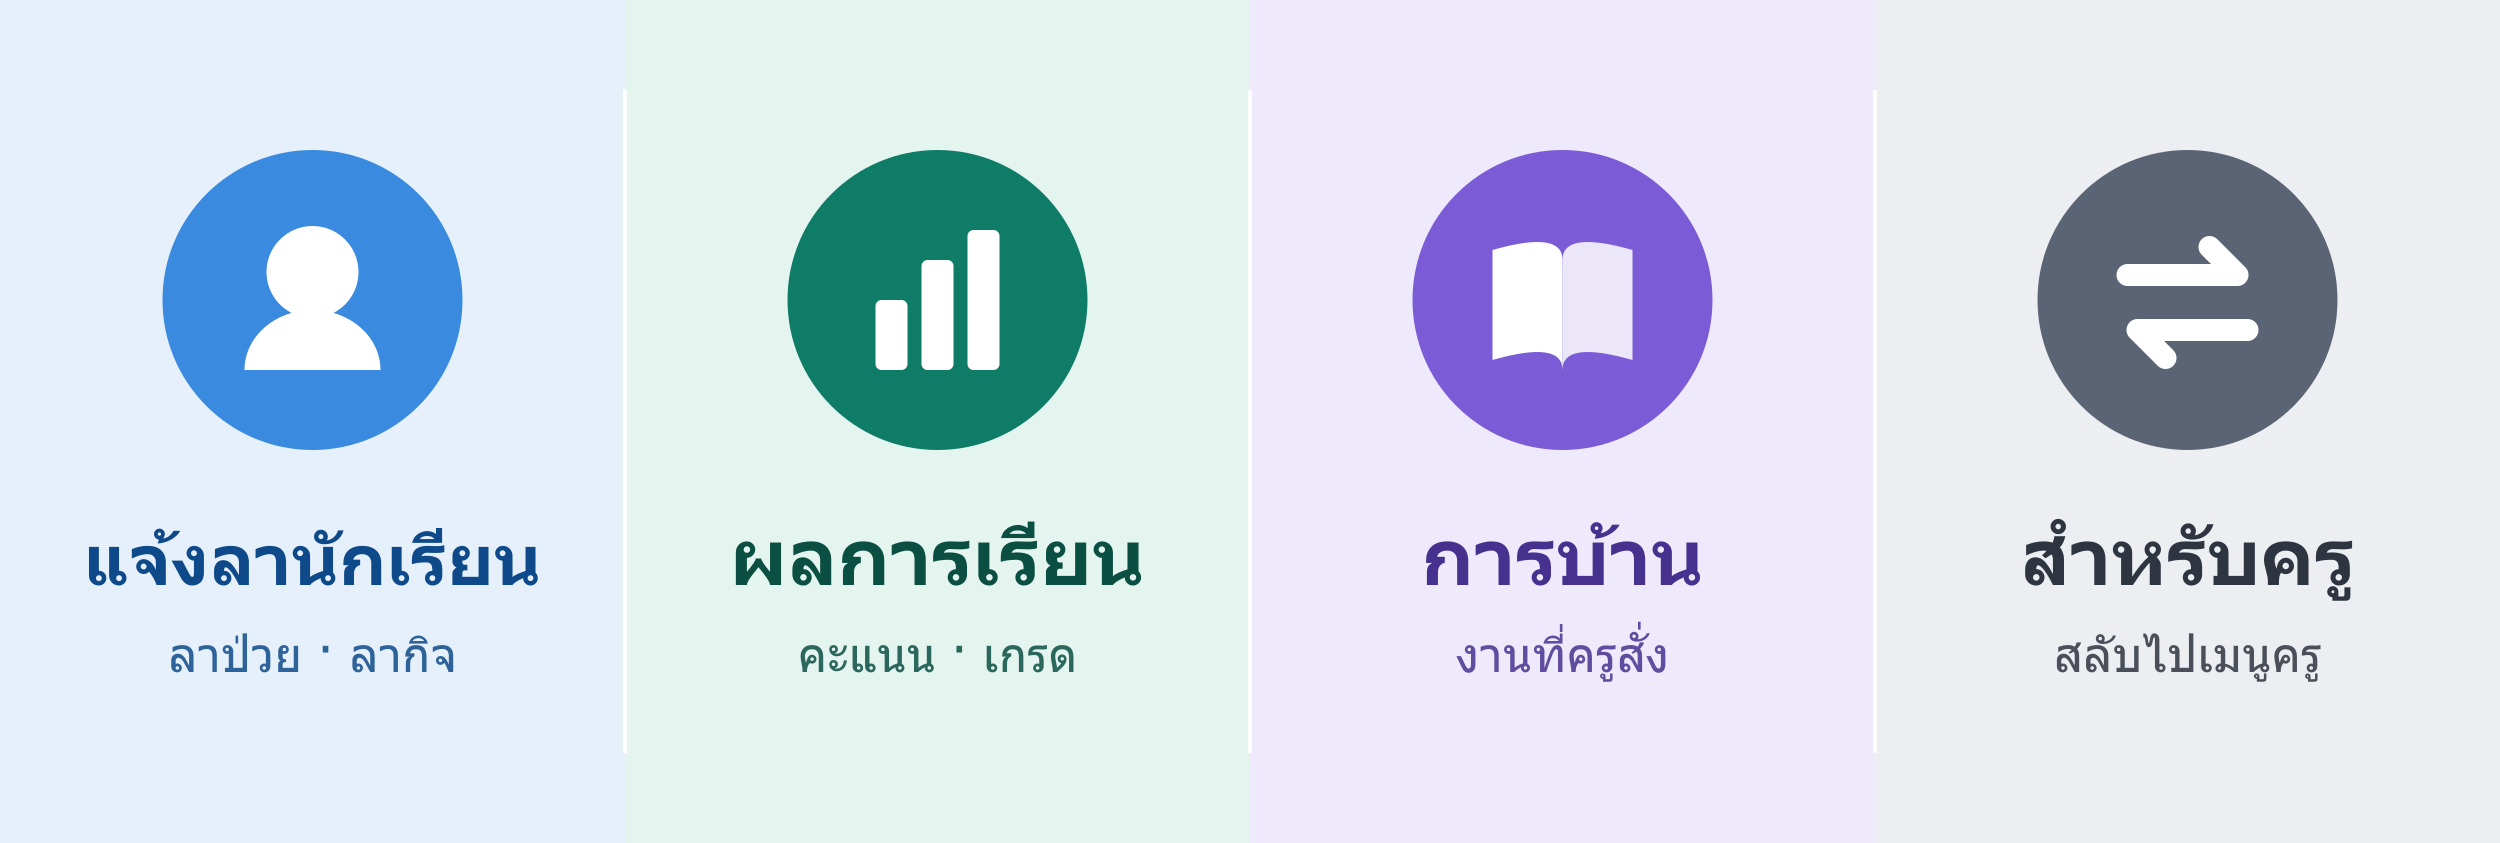
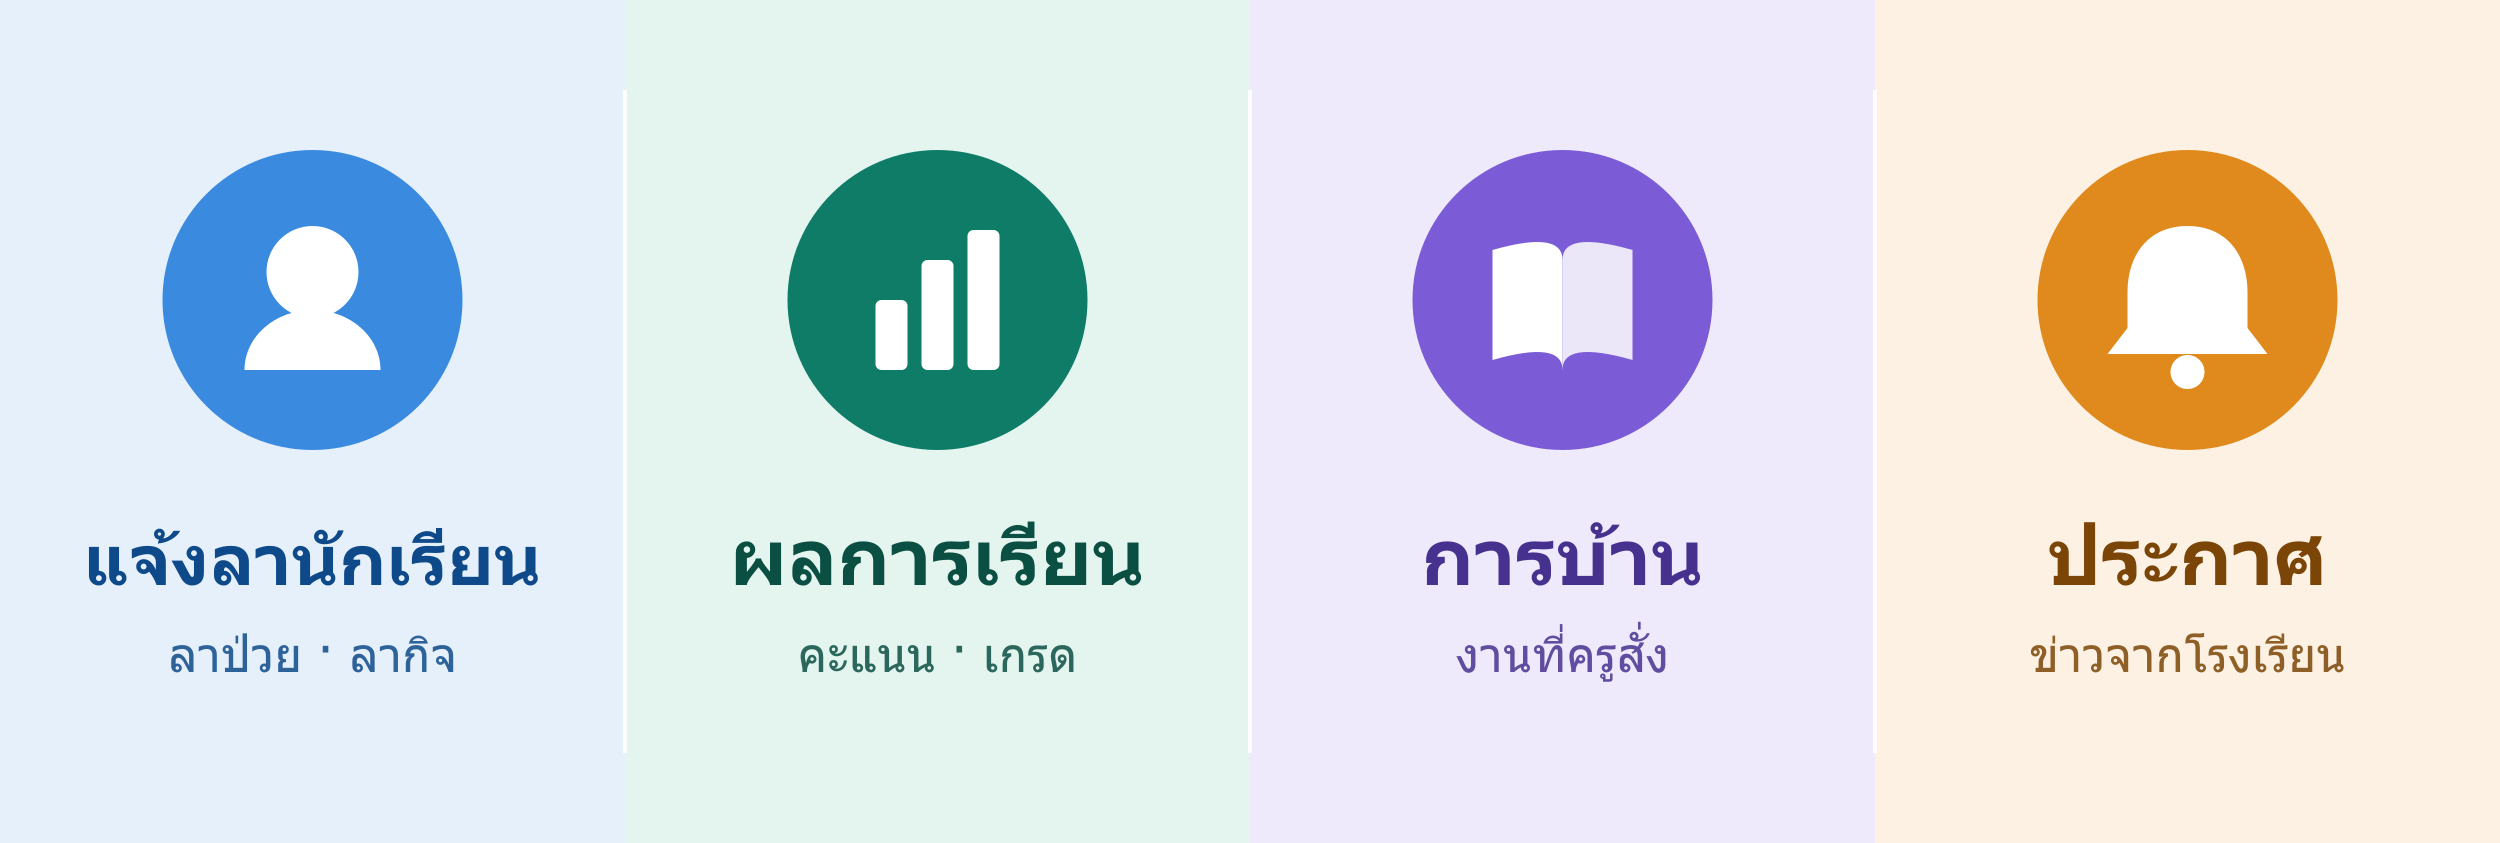
feat(n0): เมนูใหม่ (ประกาศ · ลูกของฉัน · ป้ายใหม่) + หน้า LIFF ลูกของฉัน/ประกาศ(รอพัฒนา)/ผูกบัญชีจาก QR

Changed region(s): [[0.8112, 0.1542, 0.936, 0.5552], [0.8112, 0.6168, 0.9672, 0.7094], [0.8112, 0.7402, 0.936, 0.8019]]

diff --git a/schoolflow.html b/schoolflow.html
@@ -183,6 +183,35 @@
   <div class="content" id="homeworkBody"><div class="empty-box">กำลังโหลด...</div></div>
 </div>
 
+<!-- ===== MY KIDS (ครูที่เป็นผู้ปกครอง — เมนูครูปุ่ม 4 · N0) ===== -->
+<div class="page" id="kidsPage">
+  <div class="header" style="background:#1E9C9C;">
+    <div class="header-badge"><span>👨👩👧</span><span>สำหรับครูที่เป็นผู้ปกครอง</span></div>
+    <h1>ลูกของฉัน</h1>
+    <p>เมนูผู้ปกครอง — ผูกลูกได้ที่ แจ้งลานักเรียน</p>
+  </div>
+  <div class="content">
+    <div class="section" style="display:grid;grid-template-columns:1fr 1fr;gap:10px;">
+      <button class="leave-type-btn" onclick="openKids('leave')"><span class="type-icon">📝</span><span class="type-label">แจ้งลานักเรียน</span></button>
+      <button class="leave-type-btn" onclick="openKids('grades')"><span class="type-icon">📊</span><span class="type-label">ผลการเรียน</span></button>
+      <button class="leave-type-btn" onclick="openKids('homework')"><span class="type-icon">📚</span><span class="type-label">การบ้าน</span></button>
+      <button class="leave-type-btn" onclick="openKids('notices')"><span class="type-icon">🔔</span><span class="type-label">ประกาศ</span></button>
+    </div>
+  </div>
+</div>
+
+<!-- ===== NOTICES (ผู้ปกครอง · กำลังพัฒนา — N1) ===== -->
+<div class="page" id="noticesPage">
+  <div class="header" style="background:#E08A1E;">
+    <div class="header-badge"><span>🔔</span><span>สมุดประกาศ</span></div>
+    <h1>ประกาศ</h1>
+    <p>ข่าวจากโรงเรียนและครูประจำชั้น</p>
+  </div>
+  <div class="content">
+    <div class="section"><div class="empty-box">🚧 กำลังพัฒนา<br>เร็ว ๆ นี้ประกาศจากโรงเรียนจะรวมไว้ที่นี่</div></div>
+  </div>
+</div>
+
 <!-- ===== NOTIFY PARENTS (ครู · กำลังพัฒนา) ===== -->
 <div class="page" id="notifyPage">
   <div class="header" style="background:#D6457A;">
@@ -207,7 +236,7 @@
     <div class="section">
       <div class="section-title">รหัสผูกบัญชี (8 ตัว)</div>
       <div style="font-size:13px;color:var(--gray);line-height:1.6;margin-bottom:10px;">
-        เปิดเว็บ Schoolflow บนคอม/มือถือ › กดชื่อมุมขวาบน › <b>ผูกบัญชี LINE</b> › สร้างรหัส แล้วกรอกที่นี่ภายใน 10 นาที
+        เปิดเว็บ Schoolflow › กดชื่อมุมขวาบน › <b>ผูกบัญชี LINE</b> › สร้างรหัส แล้ว<b>สแกน QR</b> (รหัสจะกรอกให้เอง) หรือพิมพ์รหัสที่นี่ภายใน 10 นาที
       </div>
       <input class="form-input" id="bindCode" type="text" inputmode="text" autocomplete="one-time-code" maxlength="9"
         placeholder="เช่น ABCD2345" style="text-transform:uppercase;letter-spacing:4px;font-size:20px;text-align:center;font-weight:700;">
@@ -246,7 +275,7 @@
   <div class="content">
     <div id="staffNotBound" class="section" style="display:none;">
       <div style="padding:14px;background:var(--yellow-pale);border:1px solid var(--yellow);border-radius:12px;font-size:14px;line-height:1.6;color:#8a6d00;">
-        ยังไม่ได้ผูกบัญชี LINE กับระบบ<br>เปิดหน้า <b>เช็คชื่อ (ครู)</b> แล้วกรอก <b>รหัสผูกบัญชี</b> จากเว็บ Schoolflow ก่อน แล้วกลับมาแจ้งลาได้
+        ยังไม่ได้ผูกบัญชี LINE กับระบบ<br>เปิดเว็บ Schoolflow › กดชื่อมุมขวาบน › <b>ผูกบัญชี LINE</b> แล้วสแกน QR ก่อน แล้วกลับมาแจ้งลาได้
       </div>
     </div>
     <div id="staffForm" style="display:none;">
@@ -325,6 +354,9 @@
       else if(page==='approve') initTeacher();
       else if(page==='staffleave') initStaffLeave();
       else if(page==='notify') show('notifyPage');
+      else if(page==='kids') show('kidsPage');
+      else if(page==='notices') show('noticesPage');
+      else if(page==='bind') initBind();
       else initParent();
     }catch(e){document.getElementById('connMsg').textContent='❌ '+e.message;}
   }
@@ -480,6 +512,22 @@
     if(d===1) return ['ส่งพรุ่งนี้','#b45309','#fef3c7'];
     return ['อีก '+d+' วัน','#6d4fc2','#efeafb'];
   }
+  /* ===== MY KIDS (hub — ไม่ต้องสลับ Rich Menu) ===== */
+  function openKids(p){
+    document.getElementById('kidsPage').classList.remove('show');
+    if(p==='grades') initGrades();
+    else if(p==='homework') initHomework();
+    else if(p==='notices') show('noticesPage');
+    else initParent();
+  }
+
+  /* ===== BIND (จาก QR บนเว็บ: ?page=bind&code=) ===== */
+  function initBind(){
+    const c=(params.get('code')||'').toUpperCase().replace(/[^A-Z0-9]/g,'').slice(0,8);
+    document.getElementById('bindCode').value=c;
+    show('bindPage');
+  }
+
   /* ===== NOTIFY (placeholder) ===== */
   function openWeb(){
     const url='https://schoolflow-74ffd.web.app/dashboard?school='+encodeURIComponent(SCHOOL);
@@ -529,7 +577,15 @@
     if(code.length!==8){st.textContent='กรอกรหัส 8 ตัวจากเว็บ Schoolflow';return;}
     document.getElementById('bindLabel').textContent='กำลังผูก...';
     const r=await api('bindTeacher',{code});
-    if(r.ok){document.getElementById('bindPage').classList.remove('show');initTeacher();}
+    if(r.ok){
+      document.getElementById('bindPage').classList.remove('show');
+      if(params.get('page')==='bind'){   // มาจาก QR → จบที่หน้าสำเร็จ
+        document.getElementById('successTitle').textContent='ผูกบัญชีสำเร็จ';
+        document.getElementById('successMsg').innerHTML=(r.teacher_name?esc(r.teacher_name)+'<br>':'')+'เมนูในไลน์จะเปลี่ยนเป็นเมนูครู<br>(ปิดแชตแล้วเปิดใหม่ถ้ายังไม่เปลี่ยน)';
+        document.getElementById('success').classList.remove('hidden');
+        setTimeout(()=>{if(liff.isInClient())liff.closeWindow();},4000);
+      }else initTeacher();
+    }
     else{st.innerHTML=`<span style="color:var(--red)">❌ ${r.error}</span>`;document.getElementById('bindLabel').textContent='ผูกบัญชี';}
   }
   function pickClass(i){
